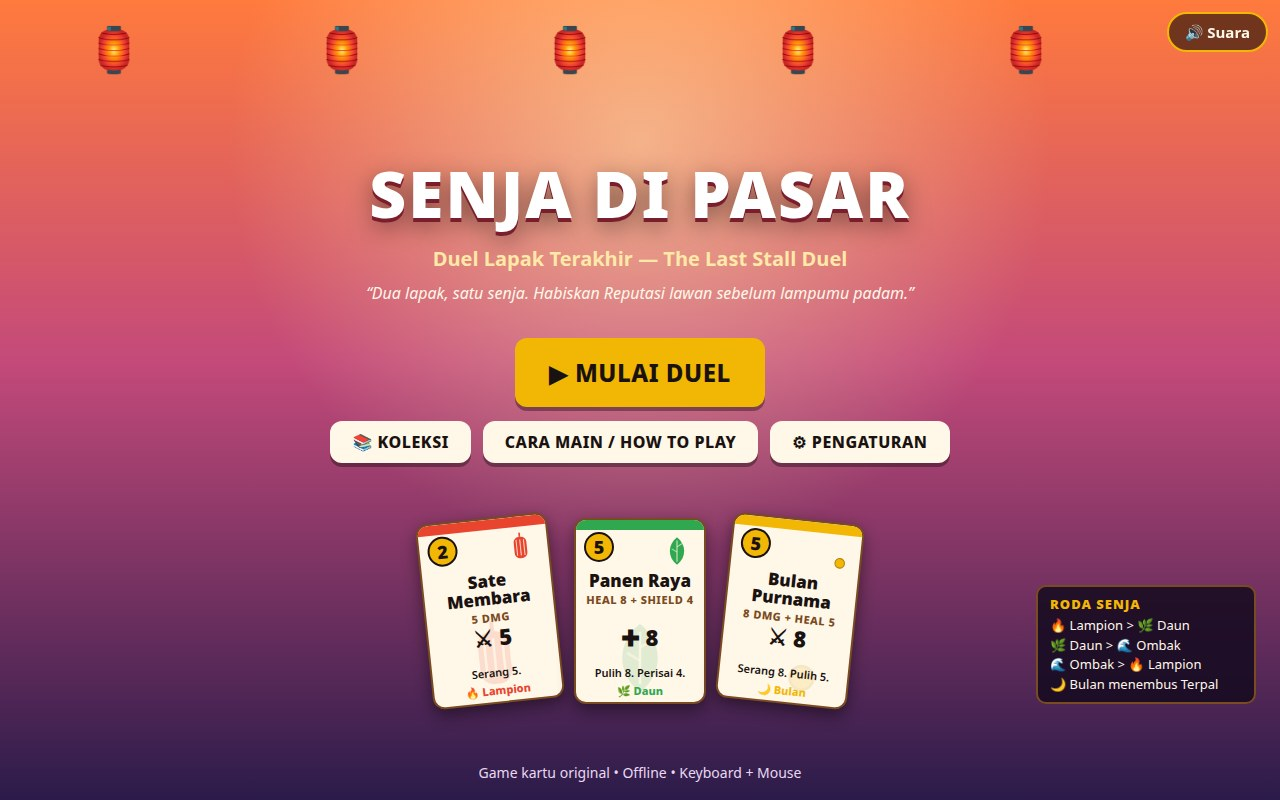
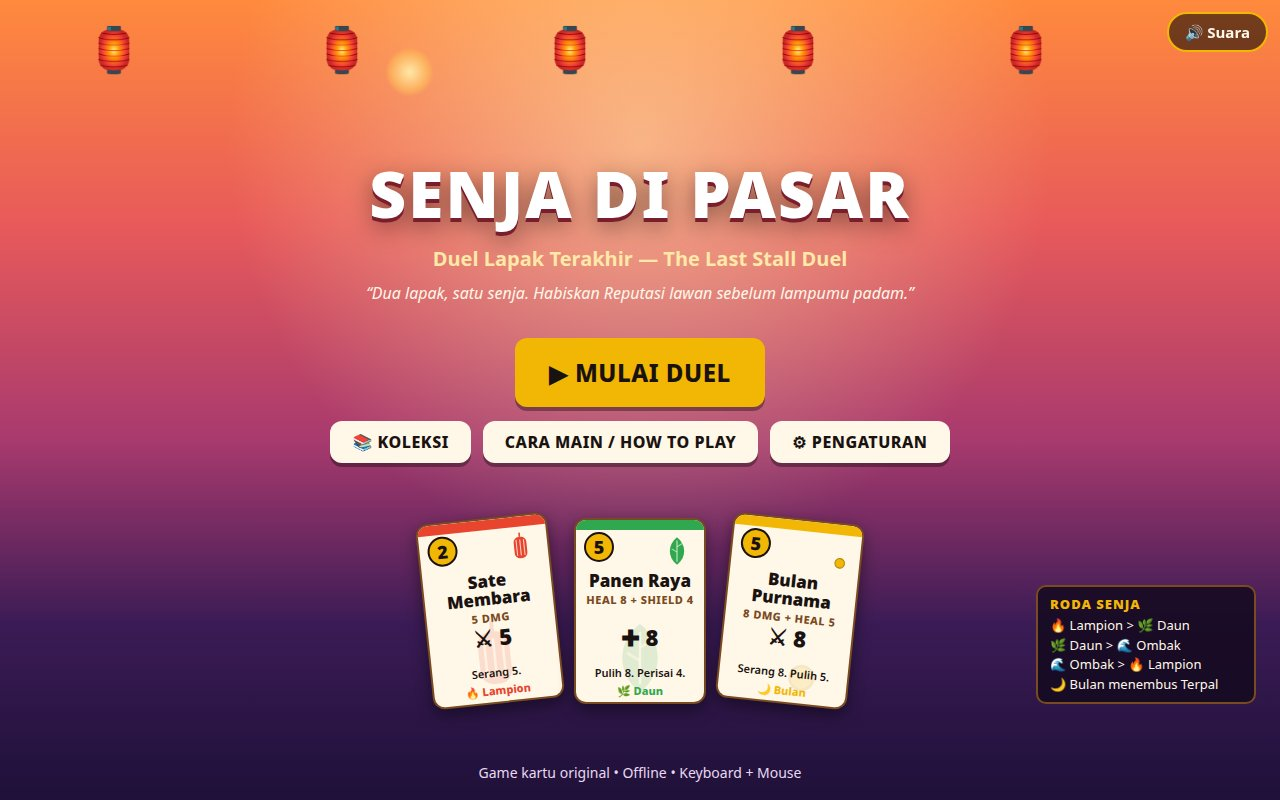
Senja di Pasar v3.3 — Latar belakang lebih dramatis (make.fun best card game)

Changed region(s): [[0.0, 0.6562, 1.0, 0.9375], [0.2812, 0.0625, 0.3438, 0.125]]

diff --git a/game/css/style.css b/game/css/style.css
@@ -55,8 +55,10 @@ button:disabled { opacity: .5; cursor: default; }
 }
 
 /* ---------- Title screen ---------- */
-#screen-title { background: linear-gradient(180deg, #FF7A3D 0%, #C44A7A 45%, #2B1B4A 100%); text-align: center; }
-.title-sky { position: absolute; inset: 0; background: radial-gradient(circle at 50% 18%, rgba(255,240,180,.55), transparent 45%); }
+#screen-title { background: linear-gradient(180deg, #FF8A3D 0%, #E85A5A 28%, #A83A6E 55%, #3B1B55 78%, #1E1038 100%); text-align: center; }
+.title-sky { position: absolute; inset: 0; background:
+  radial-gradient(circle 34px at 32% 9%, rgba(255,236,170,.95), rgba(255,190,90,.6) 55%, rgba(255,190,90,0) 72%),
+  radial-gradient(circle at 50% 18%, rgba(255,240,180,.55), transparent 45%); }
 .title-lanterns { position: absolute; top: 18px; left: 0; right: 140px; display: flex; justify-content: space-around; font-size: 44px; }
 .game-title {
   position: relative;
@@ -166,7 +168,30 @@ button:disabled { opacity: .5; cursor: default; }
 .wheel-title { font-weight: 900; color: #F2B705; letter-spacing: 1px; margin-bottom: 2px; }
 
 /* ---------- Meja utama ---------- */
-#screen-table { background: #2B1B4A; }
+/* v3.3 — latar dramatis: cahaya senja di atas, vignette di tepi, bara halus.
+   Semua di BELAKANG konten (background + ::before); ukuran/posisi elemen tidak berubah. */
+#screen-table {
+  background:
+    radial-gradient(circle 2.5px at 10% 70%, rgba(255,196,100,.55), rgba(255,196,100,0) 70%),
+    radial-gradient(circle 2px at 22% 45%, rgba(255,170,80,.45), rgba(255,170,80,0) 70%),
+    radial-gradient(circle 3px at 38% 82%, rgba(255,150,60,.4), rgba(255,150,60,0) 70%),
+    radial-gradient(circle 2px at 55% 30%, rgba(255,190,110,.4), rgba(255,190,110,0) 70%),
+    radial-gradient(circle 2.5px at 71% 66%, rgba(255,170,80,.45), rgba(255,170,80,0) 70%),
+    radial-gradient(circle 2px at 86% 40%, rgba(255,196,100,.5), rgba(255,196,100,0) 70%),
+    radial-gradient(circle 3px at 93% 74%, rgba(255,150,60,.4), rgba(255,150,60,0) 70%),
+    radial-gradient(circle 2px at 47% 88%, rgba(255,180,90,.35), rgba(255,180,90,0) 70%),
+    radial-gradient(ellipse 90% 42% at 50% -6%, rgba(255,122,61,.34), rgba(255,122,61,0) 70%),
+    radial-gradient(ellipse 120% 90% at 50% 50%, rgba(0,0,0,0) 58%, rgba(9,3,17,.5) 100%),
+    linear-gradient(180deg, #3B2058 0%, #2B1B4A 34%, #1E1038 68%, #150A27 100%);
+}
+/* Siluet atap lapak di tepi bawah — ::before terlukis di bawah semua konten. */
+#screen-table::before {
+  content: ""; position: absolute; left: 0; right: 0; bottom: 0; height: 56px;
+  background: rgba(8,3,16,.5); pointer-events: none;
+  clip-path: polygon(0 100%, 0 62%, 70px 62%, 105px 28%, 150px 28%, 185px 58%, 280px 58%, 320px 22%, 375px 22%, 415px 52%, 540px 52%, 585px 26%, 640px 26%, 685px 56%, 800px 56%, 845px 30%, 900px 30%, 940px 60%, 1050px 60%, 1095px 20%, 1150px 20%, 1190px 54%, 1280px 54%, 1280px 100%);
+  animation: stall-breathe 7s ease-in-out infinite alternate;
+}
+@keyframes stall-breathe { from { opacity: .55; } to { opacity: .8; } }
 .table-sky {
   position: absolute; top: 0; left: 0; right: 0; height: 150px;
   background: linear-gradient(180deg, #FF7A3D 0%, #C44A7A 70%, rgba(196,74,122,0) 100%);
@@ -443,8 +468,12 @@ body[data-shot="table"] .floating-damage { animation: none; opacity: 1; transfor
 .player-hand .card:nth-child(5) { animation-delay: .32s; }
 
 /* ---------- Layar menang / kalah ---------- */
-#screen-win { background: linear-gradient(180deg, #FFB347 0%, #FF7A3D 40%, #2B1B4A 100%); text-align: center; }
-#screen-loss { background: linear-gradient(180deg, #3A2B4A 0%, #241631 55%, #12081C 100%); text-align: center; }
+#screen-win { background:
+  radial-gradient(ellipse 70% 30% at 50% 0%, rgba(255,240,180,.5), rgba(255,240,180,0) 70%),
+  linear-gradient(180deg, #FFC46B 0%, #FF7A3D 32%, #C44A5E 68%, #2B1B4A 100%); text-align: center; }
+#screen-loss { background:
+  radial-gradient(circle 40px at 68% 10%, rgba(220,225,255,.28), rgba(220,225,255,0) 70%),
+  linear-gradient(180deg, #33244A 0%, #1D1229 55%, #0C0516 100%); text-align: center; }
 .win-sky, .loss-sky { position: absolute; inset: 0; }
 .end-title { position: relative; margin-top: 110px; font-size: 56px; font-weight: 900; letter-spacing: 1px; text-shadow: 0 4px 0 rgba(0,0,0,.4); }
 .win-title { color: #F2B705; }
